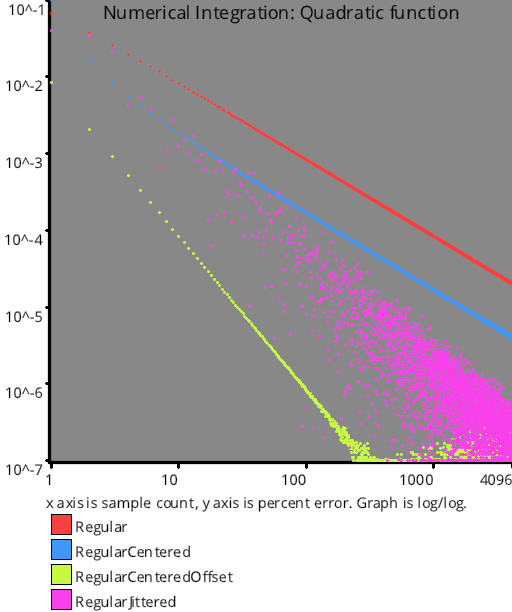
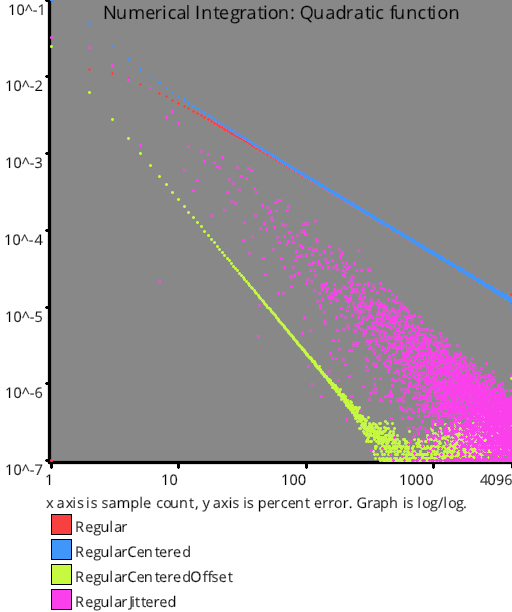
adding graphs to show functions being integrated by 1d integration test

diff --git a/src/families/_1d/tests/integration/integration.cpp b/src/families/_1d/tests/integration/integration.cpp
@@ -10,6 +10,7 @@ Uses samples to integrate 1d functions
 #include "codegen.h"
 #include "shared/math.h"
 #include "shared/graph.h"
+#include "manual_test.h"
 
 static const float e = 2.71828182845904523536f;
 
@@ -33,8 +34,8 @@ static float Exp(float x)
 
 static float Quadratic(float x)
 {
-    // function: y = 3x^2+2x+1
-    return 3.0f*x*x + 2.0f*x + 1.0f;
+    // function: y = -3x^2+2x+1
+    return -3.0f*x*x + 2.0f*x + 1.0f;
 }
 
 template <typename LAMBDA>
@@ -199,5 +200,60 @@ void _1d::Tests::Integration::Exp(const std::vector<std::vector<SampleGenerateIn
 
 void _1d::Tests::Integration::Quadratic(const std::vector<std::vector<SampleGenerateInfo_1d>>& sampleFunctions, const char* testName, const char* fileNamePrefix)
 {
-    DoIntegrationTest(sampleFunctions, testName, fileNamePrefix, ::Quadratic, 3.0f);
+    DoIntegrationTest(sampleFunctions, testName, fileNamePrefix, ::Quadratic, 1.0f);
+}
+
+template <typename LAMBDA>
+static void MakeFunctionGraph(const LAMBDA& lambda, const char* functionName, const char* title)
+{
+    static size_t c_sampleCount = 256;  // TODO: not enough!
+
+    char fileName[256];
+    sprintf(fileName, "output/_1d/tests/integration/%s.png", functionName);
+
+    GraphDesc desc;
+    desc.fileName = fileName;
+    desc.title = functionName;
+    desc.footer = title;
+
+    desc.graphItems.resize(1);
+    GraphItem& graph = desc.graphItems[0];
+
+    float miny = 0.0;
+    float maxy = -FLT_MAX;
+
+    for (size_t sampleIndex = 0; sampleIndex < c_sampleCount; ++sampleIndex)
+    {
+        float x = float(sampleIndex) / float(c_sampleCount - 1);
+        float y = lambda(x);
+        graph.data.push_back(Vec2{x, y});
+
+        miny = std::min(miny, y);
+        maxy = std::max(maxy, y);
+    }
+
+    desc.forceYMinMax = true;
+    desc.yMinMax = Vec2{ miny, maxy };
+
+    char buffer[256];
+
+    sprintf(buffer, "%0.2f", miny);
+    desc.yAxisTicks.push_back({ miny, buffer, TextHAlign::Right, TextVAlign::Bottom });
+
+    sprintf(buffer, "%0.2f", maxy);
+    desc.yAxisTicks.push_back({ maxy, buffer, TextHAlign::Right, TextVAlign::Top });
+
+    desc.xAxisTicks.push_back({ 0.0f, "0", TextHAlign::Left, TextVAlign::Top });
+    desc.xAxisTicks.push_back({ 1.0f, "1", TextHAlign::Right, TextVAlign::Top });
+
+    MakeGraph(desc);
+}
+
+void _1d::Tests::Integration::ManualTest()
+{
+    // make a graph for each function being integrated, so we can show it as part of the documentation
+    MakeFunctionGraph(::Linear, "linear", "y = x");
+    MakeFunctionGraph(::Step, "step", "y = x>0.5 ? 1 : 0");
+    MakeFunctionGraph(::Exp, "exp", "y = e^x");
+    MakeFunctionGraph(::Quadratic, "quadratic", "y = -3x^2+2x+1");
 }

diff --git a/src/main.cpp b/src/main.cpp
@@ -8,9 +8,11 @@ DATE: 2/8/2019
 #include "codegen.h"
 
 #include "families/_1d/samples/blue_noise/manual_test.h"
+#include "families/_1d/tests/integration/manual_test.h"
 
 void ManualTest()
 {
+    _1d::Tests::Integration::ManualTest();
     _1d::Samples::BlueNoise::ManualTest();
 }
 
@@ -36,6 +38,8 @@ TODOs:
 * sample families: need an intro section that has a summary of the tests too (best?)
 * samples in 1d / 2d: need a "comparison vs others" section. to showcase vs worse (worst?) and better (best?) of the family
 * tests in 1d /2d: need to explain how they deal with randomization vs determinism and progressive vs non progressiveness
+
+* make 2d integration graphs like you did for 1d.
 
 * integration tests should show the function they are integrating, graphed.
  * for 1d, easy enough to make a graph

diff --git a/src/families/_1d/tests/integration/manual_test.h b/src/families/_1d/tests/integration/manual_test.h
@@ -1,0 +1,18 @@
+/*
+FILE: manual_test.h
+AUTHOR: Alan Wolfe (alan.wolfe@gmail.com)
+DATE: 3/9/2019
+*/
+
+#pragma once
+
+namespace _1d
+{
+    namespace Tests
+    {
+        namespace Integration
+        {
+            void ManualTest();
+        };
+    };
+};

diff --git a/output/_1d/tests/integration/page.md b/output/_1d/tests/integration/page.md
@@ -17,7 +17,12 @@ This test uses each sampling type to try and integrate the following functions f
 * Linear: y = x
 * Step: y = (x > 0.5) ? 1.0 : 0.0
 * Exp: y = e^x
-* Quadratic: y=3x^2+2x+1
+* Quadratic: y=-3x^2+2x+1
+
+![Linear](linear.png)  
+![Step](step.png)  
+![Exp](exp.png)  
+![Quadratic](quadratic.png)  
 
 ## links
 

diff --git a/src/families/_1d/tests/integration/tests.md b/src/families/_1d/tests/integration/tests.md
@@ -14,7 +14,12 @@ This test uses each sampling type to try and integrate the following functions f
 * Linear: y = x
 * Step: y = (x > 0.5) ? 1.0 : 0.0
 * Exp: y = e^x
-* Quadratic: y=3x^2+2x+1
+* Quadratic: y=-3x^2+2x+1
+
+![Linear](linear.png)  
+![Step](step.png)  
+![Exp](exp.png)  
+![Quadratic](quadratic.png)  
 
 ## links
 
